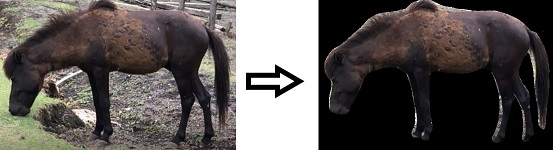
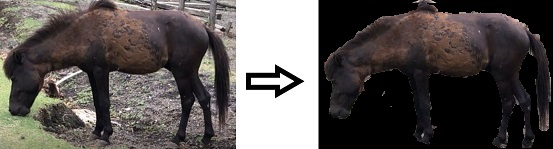
add GrabCut algorithm, rename nondeep->extract_contour, add new desc images, add GrabCut desc(README)

diff --git a/grabcut.py b/grabcut.py
@@ -1,0 +1,234 @@
+from copy import deepcopy
+import cv2
+import argparse
+import urllib.request
+import numpy as np
+
+# 切り抜き用の左上位置・右下位置・フラグ
+upleft = None
+lowright = None
+cutflg = False
+
+# Enterキーコード
+ENTER_KEY = 13  
+
+# マウスが押されているかフラグ(ペイント時に使用)
+mouseLpush = False
+mouseRpush = False
+
+# ループ終了フラグ
+loopend = False
+
+
+def displayImg(img):
+    """
+    画像を表示
+    """
+    cv2.imshow("display image", img)
+    cv2.waitKey(0)
+    cv2.destroyAllWindows()
+
+
+def getImg(args):
+    """
+    :return 画像データ(ndarray)
+    """
+    # インターネットから画像をダウンロード
+    urllib.request.urlretrieve(args.img_url, args.fname)
+    # 画像を読み込み
+    img = cv2.imread(args.fname)  # (H,W,3)
+
+    img = cv2.imread("./img/tokara_horse.jpg")
+
+    return img
+
+
+def cutImg(img):
+    """
+    マウス操作によって画像を矩形に切り抜き
+    """
+    cv2.namedWindow("cutting")
+
+    def mouseposition(event, x, y, flags, param):
+        """
+        マウスの位置座標を取得
+        """
+        global upleft
+        global lowright
+        global cutflg
+        # 左マウスが押された時
+        if event == cv2.EVENT_LBUTTONDOWN:
+            upleft = (x, y)
+        # 左マウスが離された時
+        elif event == cv2.EVENT_LBUTTONUP:
+            cutflg = True
+        # 　左マウスが離される前まで
+        elif not event == cv2.EVENT_LBUTTONUP and not cutflg:
+            lowright = (x, y)
+
+    cv2.setMouseCallback("cutting", mouseposition)
+    showimg = img
+
+    while 1:
+        cv2.imshow("cutting", showimg)
+        # Enterキーで処理終了
+        if cv2.waitKey(1) == ENTER_KEY or cutflg:
+            cv2.destroyAllWindows()
+            break
+
+        if (not upleft is None) and (not lowright is None) and not cutflg:
+            showimg = deepcopy(img)  # 画像の上書きを防ぐ
+            # バウンディングボックス選択中の描画
+            cv2.rectangle(
+                showimg,
+                (upleft[0], upleft[1]),
+                (lowright[0], lowright[1]),
+                (0, 255, 0),
+                2,
+            )
+    
+    return img[upleft[1] : lowright[1], upleft[0] : lowright[0]]  # 切り抜き
+
+
+def paint(img, originimg, mask):
+    """
+    GUIを用いて描画
+    マウス左ボタン：黒色描画（誤検出部分をマスク）
+    マウス右ボタン：白色描画（未検出部分をマスク）
+    """
+
+    # 画像合成(切り抜かれる部分とそうでない部分を明瞭化)
+    showimg = cv2.addWeighted(src1=img, alpha=0.6, src2=originimg, beta=0.3, gamma=0)
+
+    cv2.namedWindow("painting")
+
+    def draw_circle(event, x, y, flags, param):
+        global mouseLpush
+        global mouseRpush
+        global loopend
+
+        # マウス左ボタンが押されている場合
+        if mouseLpush:
+            cv2.circle(showimg, (x, y), 10, (0, 0, 0), -1)
+            cv2.circle(mask, (x, y), 10, (0, 0, 0), -1)
+        # マウス右ボタンが押されている場合
+        elif mouseRpush:
+            cv2.circle(showimg, (x, y), 10, (255, 255, 255), -1)
+            cv2.circle(mask, (x, y), 10, (255, 255, 255), -1)
+
+        # マウス左ボタンが押されたら
+        if event == cv2.EVENT_LBUTTONDOWN:
+            mouseLpush = True
+        # マウス右ボタンが押されたら
+        elif event == cv2.EVENT_RBUTTONDOWN:
+            mouseRpush = True
+        elif event == cv2.EVENT_MBUTTONDOWN:
+            loopend = True
+            
+        # それ以外
+        elif flags == 0:
+            mouseLpush = False
+            mouseRpush = False
+
+    cv2.setMouseCallback("painting", draw_circle)
+
+    while 1:
+        cv2.imshow("painting", showimg)
+        # Enterキーで処理終了
+        if cv2.waitKey(1) == ENTER_KEY or loopend:
+            cv2.destroyAllWindows()
+            break
+
+    return cv2.cvtColor(mask, cv2.COLOR_BGR2GRAY)
+
+
+def grabcut(img, newmask, rect, bgdModel, fgdModel, mask_base):
+    """
+    GrabCutアルゴリズム実行
+    :param img 入力画像
+    :param newmask 適用するマスク
+    :param rect 対象範囲
+    :param bdgModel 背景配列(お約束)
+    :param fgdModel 前景配列(お約束)
+    :param mask_base 空のマスク(2回目のみ使用)
+    """
+
+    if not rect is None:
+        cv2.grabCut(img, newmask, rect, bgdModel, fgdModel, 10, cv2.GC_INIT_WITH_RECT)
+    else:
+        mask_base[newmask == 0] = 0     # 黒色は背景とする
+        mask_base[newmask == 255] = 1   # 白色は前景とする
+        newmask, bgdModel, fgdModel = cv2.grabCut(
+            img, mask_base, None, bgdModel, fgdModel, 5, cv2.GC_INIT_WITH_MASK
+        )
+
+    # 画素値が0と2の画素は全て0(背景)に，画素値が1と3の画素は全て1(前景)に変更
+    mask = np.where((newmask == 2) | (newmask == 0), 0, 1).astype("uint8")
+
+    # マスクを用いて切り抜き
+    img = img * mask[:, :, np.newaxis]
+
+    return img
+
+
+def main(args):
+    # 画像読み込み
+    img = getImg(args)
+
+    # 画像切り抜き
+    croppedimg = cutImg(img)
+
+    # 画像の高さ・幅を取得
+    h, w = croppedimg.shape[:2]
+
+    # 初期マスクを生成
+    mask_init = np.zeros((h, w), dtype=np.uint8)
+    newmask = mask_init
+
+    # 対象矩形範囲を設定
+    rect = (1, 1, w, h)
+
+    # 背景/前景に関する配列(お約束)
+    bgdModel = np.zeros((1, 65), np.float64)  
+    fgdModel = np.zeros((1, 65), np.float64)
+
+
+    while 1:
+        # GrabCutアルゴリズム実行
+        result = grabcut(croppedimg, newmask, rect, bgdModel, fgdModel, mask_init)
+
+        # 新規空マスクを生成
+        empty_mask = np.zeros((h, w, 3), np.uint8)
+        empty_mask += 125  # 灰色
+
+        # マスクを手作業で作成(白：未検出部分、黒:誤検出部分)
+        newmask = paint(result, croppedimg, empty_mask)
+
+        # ペイント時にマウス中ボタンを押すと終了
+        if loopend:
+            break
+
+        # ２回目以降、rectは不要なため
+        rect = None
+
+    if args.display:
+            displayImg(result)
+
+    if args.save:
+        cv2.imwrite("./result.jpg", result)
+
+
+if __name__ == "__main__":
+    parser = argparse.ArgumentParser(description="Segmentation")
+    parser.add_argument(
+        "--img_url",
+        type=str,
+        default="https://blogimg.goo.ne.jp/user_image/29/58/45dc07ba6673ee855e23253d6ff78098.jpg",
+        help="入力画像URL",
+    )
+    parser.add_argument("--fname", type=str, default="deepbond.jpg", help="ダウンロードファイル名")
+    parser.add_argument("--display", action="store_false", help="表示フラグ")
+    parser.add_argument("--save", action="store_true", help="保存フラグ")
+    args = parser.parse_args()
+
+    main(args)

diff --git a/README.md b/README.md
@@ -1,13 +1,15 @@
 # segmentation-horse
 
 ## 非深層学習ベース
-二値化・輪郭抽出による馬の領域抽出<br>
+### 二値化・輪郭抽出による馬の領域抽出
+[ソースコード：extract_contour.py](./extract_contour.py)
+
 トラックバーによって手動でマスクを設定
 
 <img src="./assets/desc.jpg" style="height:200px"></img><br>
 図１：非深層学習手法による出力結果比較
 
-### トラックバー説明
+【トラックバー説明】<br>
 **マスクを生成**
 
 パラメーターによって二値化の範囲を設定
@@ -28,14 +30,37 @@
 図３：imageウィンドウにおける色取得(表示される画像はHSV画像)
 
 
+### GrabCutによる馬の領域抽出
+[ソースコード：grabcut.py](./grabcut.py)
+
+<img src="./assets/desc2.jpg" style="height:200px"></img><br>
+図４：GrabCutアルゴリズムによる出力結果比較
+
+1. バウンディングボックスによる領域選択
+
+    <img src="./assets/cutimg.jpg" style="height:300px"></img><br>
+    図５：アルゴリズム適用領域選択
+
+2. ペイント操作によって領域修正<br>
+    白色：未検出部分、黒色：誤検出部分<br>
+    マウス左クリックで黒色、マウス右クリックで白色
+    マウスホイール部をクリックして全体の処理を終了
+
+    <img src="./assets/paint.jpg" style="height:300px"></img><br>
+    図６：GrabCutアルゴリズムの出力に対する領域修正
+
+【注意】全体の処理を終了させるにはペイント操作時にマウスホイール部をクリックする必要
+
+
 ## 深層学習ベース
+[ソースコード：deep.py](./deep.py)
 
 semantic segmentationによる馬の領域抽出
 
 PyTorch Hubで配布されている**DEEPLABV3**を使用。
 semantic segmentationを用いてマスクを生成して馬の領域の抽出を行う。
 
-<img src="./assets/desc2.jpg" style="height:200px"></img><br>
+<img src="./assets/desc3.jpg" style="height:200px"></img><br>
 図３：深層学習手法による出力結果比較
 
 ## 仮想環境
@@ -49,6 +74,7 @@ conda env create --file env.yaml
 - opencv:4.0.1
 
 ## 参考サイト
+- [GrabCutを使った対話的前景領域抽出](http://labs.eecs.tottori-u.ac.jp/sd/Member/oyamada/OpenCV/html/py_tutorials/py_imgproc/py_grabcut/py_grabcut.html)
 - [DEEPLABV3](https://pytorch.org/hub/pytorch_vision_deeplabv3_resnet101/)
 - [Deeplabv3-ResNet101でセマンティック・セグメンテーションをやってみる](https://kikaben.com/deeplabv3-resnet101-segmentation/)
 - [OpenCV4Python10:OpenCV(numpy.ndarray)とPyTorch Hubで画像分類](https://note.com/fz5050/n/nfe3e087a8949)
